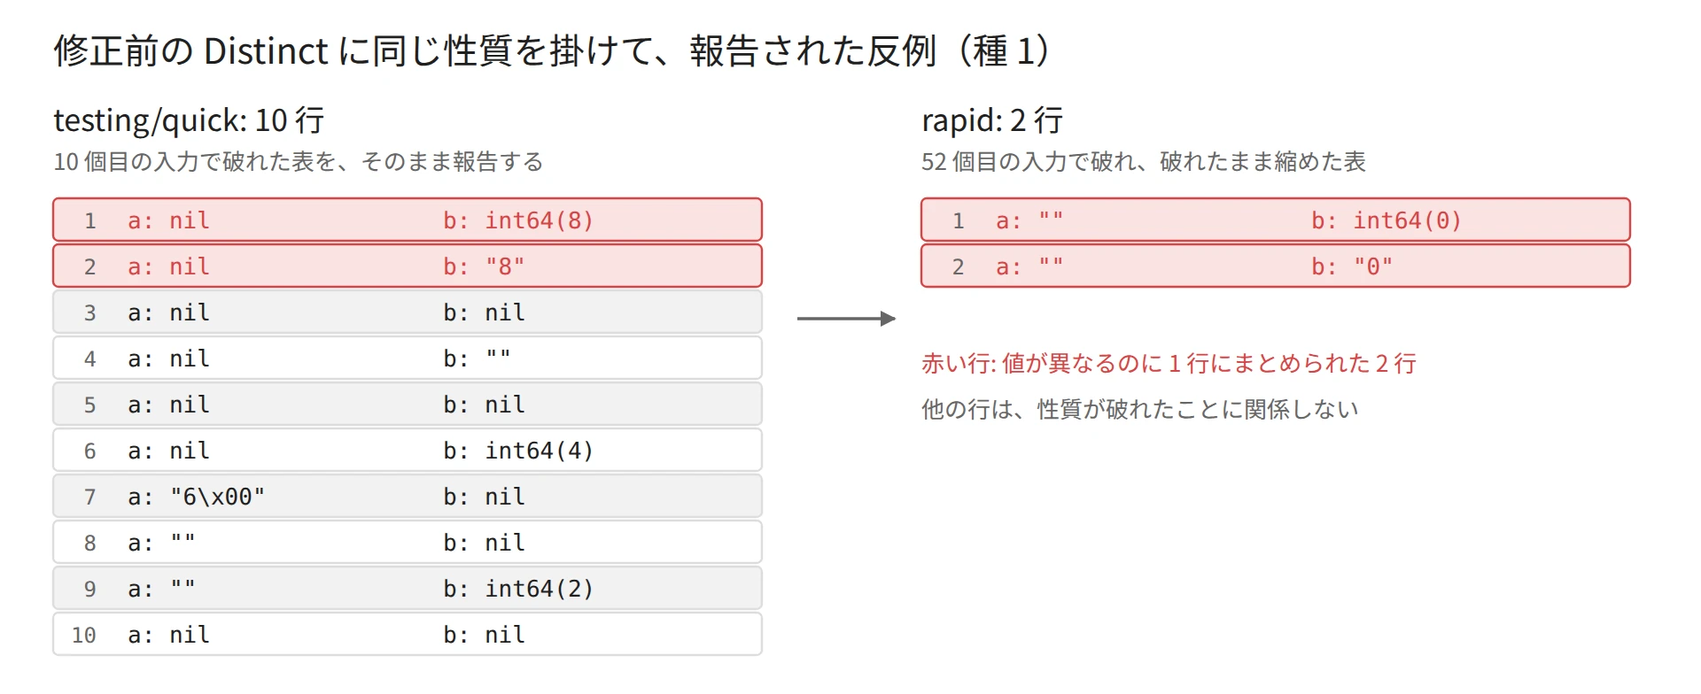
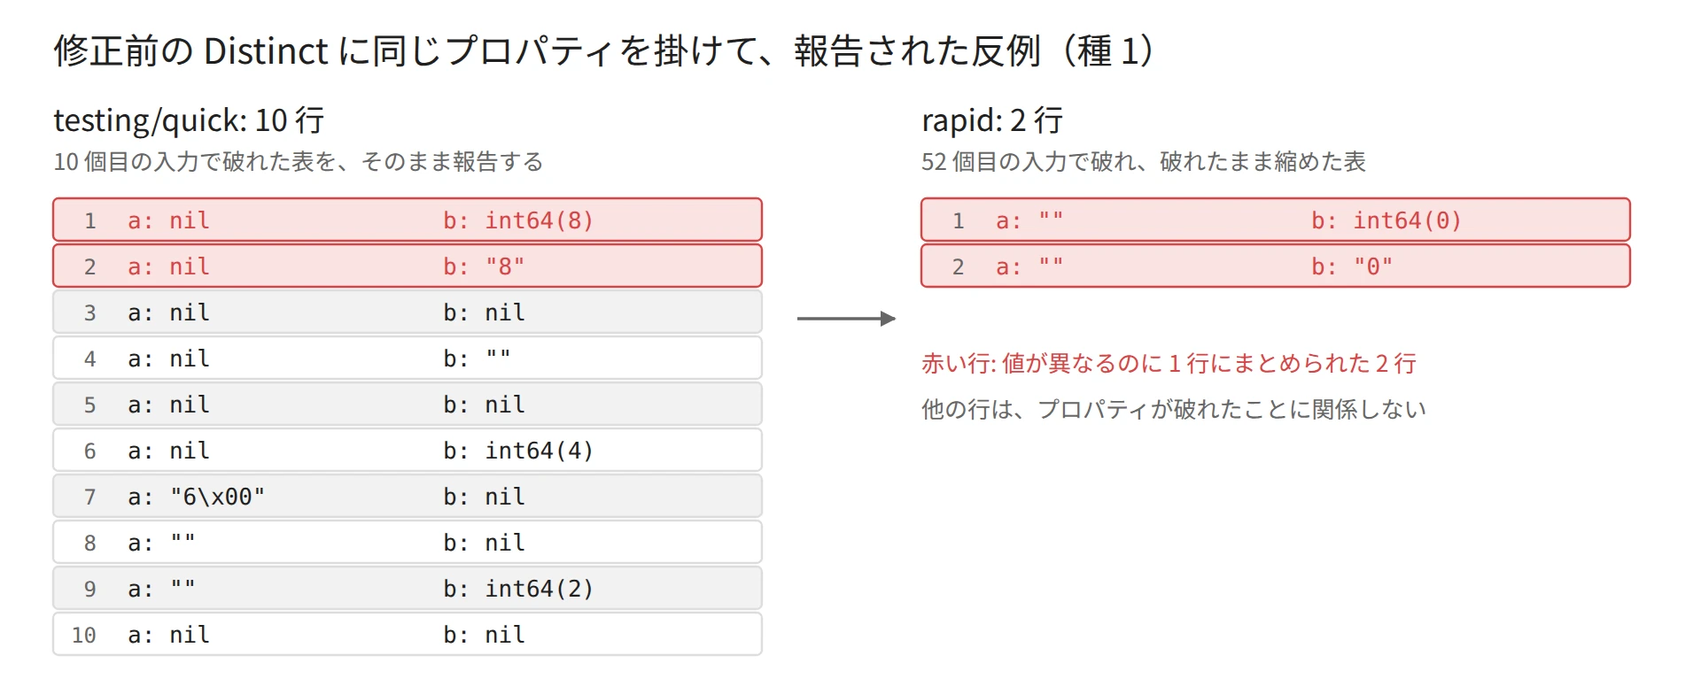
docs(notes): use the common terms for bulkhead, poison pill, projection, property and generator
Follow the Japanese documentation of Microsoft Learn and AWS, the jman
stdio(3) page and the Japanese edition of Property-Based Testing with
PropEr, Erlang, and Elixir. Shrinking becomes 収縮 to match the same book.
Regenerate the figures that carried the old labels. The Property-Based
Testing note is split over three commits to keep each change small.

Changed region(s): [[0.25, 0.0306, 0.6875, 0.0918], [0.5938, 0.551, 0.8438, 0.6122]]

diff --git a/content/notes/software-testing/property-based-testing/figures.py b/content/notes/software-testing/property-based-testing/figures.py
@@ -6,10 +6,10 @@
 動く図は Pillow の ImageDraw でコマを描く。images/ には WebP だけを残す。
 数値と反例は lab/output/ から読むので、実験の script を回し直したら、この script も回し直す。
 
-- cover_figure(): 表紙。修正前の Distinct に同じ性質を掛けた時、testing/quick が報告した反例（10 行）と
+- cover_figure(): 表紙。修正前の Distinct に同じプロパティを掛けた時、testing/quick が報告した反例（10 行）と
   rapid が縮めた反例（2 行）を並べる（lab/output/exp1_shrink.tsv の種 1）。
 - keys_figure(): 修正前の makeRowKey が、異なる 2 行に同じ鍵を作る 3 つの組（filesql Issue #354）。
-- shrink_animation(): rapid が種 1 の反例を縮める途中で、性質が破れた表を順に見せる動画
+- shrink_animation(): rapid が種 1 の反例を縮める途中で、プロパティが破れた表を順に見せる動画
   （lab/output/exp1_shrink_steps_seed1.txt）。
 - float_figure(): 修正後の鍵が整数を float64 にしてから文字列にするので、2^53 を超えると
   隣り合う整数が同じ鍵になる（filesql Issue #379）。
@@ -155,14 +155,14 @@ def cover_figure():
     q, r = read_exp1("quick"), read_exp1("rapid")
     qrows, rrows = parse_table(q["counterexample"]), parse_table(r["counterexample"])
     s = Svg(960, 400)
-    s.text(30, 36, "修正前の Distinct に同じ性質を掛けて、報告された反例（種 1）", 20, INK, "start")
+    s.text(30, 36, "修正前の Distinct に同じプロパティを掛けて、報告された反例（種 1）", 20, INK, "start")
     end = table_svg(s, 30, 74, qrows, 400, f"testing/quick: {len(qrows)} 行",
                     f"{q['case']} 個目の入力で破れた表を、そのまま報告する")
     table_svg(s, 520, 74, rrows, 400, f"rapid: {len(rrows)} 行",
               f"{r['case']} 個目の入力で破れ、破れたまま縮めた表")
     s.arrow(450, 180, 505, 180)
     s.text(520, 210, "赤い行: 値が異なるのに 1 行にまとめられた 2 行", 13, RED, "start")
-    s.text(520, 236, "他の行は、性質が破れたことに関係しない", 13, SUB, "start")
+    s.text(520, 236, "他の行は、プロパティが破れたことに関係しない", 13, SUB, "start")
     s.h = max(end + 20, 300)
     s.p[0] = f'<svg xmlns="http://www.w3.org/2000/svg" width="960" height="{s.h}" viewBox="0 0 960 {s.h}">'
     s.p[3] = f'<rect width="960" height="{s.h}" fill="#ffffff"/>'
@@ -218,7 +218,7 @@ def shrink_animation(step_sec=0.5, hold=3.0):
         im = Image.new("RGB", (W * S, H * S), "#ffffff")
         d = ImageDraw.Draw(im)
         d.text((24 * S, 18 * S), "rapid が反例を縮める様子（修正前の Distinct、種 1）", font=font(19), fill=rgb(INK))
-        d.text((24 * S, 50 * S), f"性質が破れた表 {k + 1} 個目 / {len(steps)} 個（1 個目が見つけた反例）　　行の数 {len(rows)}",
+        d.text((24 * S, 50 * S), f"プロパティが破れた表 {k + 1} 個目 / {len(steps)} 個（1 個目が見つけた反例）　　行の数 {len(rows)}",
                font=font(15), fill=rgb(SUB))
         # 何個目かが分かる帯
         bx, by, bw = 24, 80, 852

diff --git a/content/notes/software-testing/property-based-testing/lab/distinct/distinct_test.go b/content/notes/software-testing/property-based-testing/lab/distinct/distinct_test.go
@@ -25,7 +25,7 @@ func (tb table) rows() []map[string]any {
 	return rows
 }
 
-// 性質: Distinct が返す行の数は、値が本当に異なる行の数に等しい。
+// プロパティ: Distinct が返す行の数は、値が本当に異なる行の数に等しい。
 // セルは nil・int64・string だけなので、[2]any を map の鍵にすれば
 // 「型と値が両方同じ」の比較になる。
 func check(tb table) error {
@@ -44,7 +44,7 @@ func check(tb table) error {
 	return nil
 }
 
-// 狭い生成器: 整数は 0〜9、文字列は 0〜2 文字で、文字は数字・x・NUL だけ。
+// 狭いジェネレーター: 整数は 0〜9、文字列は 0〜2 文字で、文字は数字・x・NUL だけ。
 const narrowRunes = "0123456789x\x00"
 
 func narrowCell(r *rand.Rand) any {
@@ -62,7 +62,7 @@ func narrowCell(r *rand.Rand) any {
 	}
 }
 
-// 広い生成器: 整数は int64 の全範囲、文字列は testing/quick が string に使う既定の生成。
+// 広いジェネレーター: 整数は int64 の全範囲、文字列は testing/quick が string に使う既定の生成。
 func broadCell(r *rand.Rand) any {
 	switch r.Intn(3) {
 	case 0:
@@ -126,10 +126,10 @@ func TestQuickSeeds(t *testing.T) {
 	}
 }
 
-// rapid の生成器。狭い・広いの範囲は上の testing/quick と同じにする。
+// rapid のジェネレーター。狭い・広いの範囲は上の testing/quick と同じにする。
 func rapidCell(gen string) *rapid.Generator[any] {
 	if gen == "edge" {
-		// 境界を足した生成器: 整数に、float64 で正確に表せる最大の連続した整数 2^53 の前後を混ぜる。
+		// 境界を足したジェネレーター: 整数に、float64 で正確に表せる最大の連続した整数 2^53 の前後を混ぜる。
 		return rapid.OneOf(
 			rapid.Just[any](nil),
 			rapid.Map(rapid.OneOf(rapid.Int64Range(0, 9), rapid.Int64Range(1<<53-2, 1<<53+2)), func(v int64) any { return v }),
@@ -167,7 +167,7 @@ func TestRapid(t *testing.T) {
 	})
 }
 
-// SHRINKLOG を指定すると、性質が破れた表を破れた順にそのファイルへ 1 行ずつ足す。
+// SHRINKLOG を指定すると、プロパティが破れた表を破れた順にそのファイルへ 1 行ずつ足す。
 // 最初の行が最初に見つけた反例で、その後は rapid が縮める途中で破れた表。
 func logShrink(tb table) {
 	p := os.Getenv("SHRINKLOG")

diff --git a/content/notes/software-architecture/cell-based-architecture/lab/blast_radius.py b/content/notes/software-architecture/cell-based-architecture/lab/blast_radius.py
@@ -1,8 +1,8 @@
-"""1 人の毒入り顧客が、他の顧客をどれだけ巻き込むかを数える。
+"""ポイズンピルを送る 1 人の顧客が、他の顧客をどれだけ巻き込むかを数える。
 
 ワーカー 8 台と顧客 1 万人で、通常の cell（2 台ずつ 4 組）と
 shuffle sharding（顧客ごとにランダムな 2 台の組）の割り当てを比べる。
-毒入り顧客の要求は、届いたワーカーを全て止めるものとする。
+ポイズンピルを送る顧客の要求は、届いたワーカーを全て止めるものとする。
 標準ライブラリだけを使う。Python 3.14.4 で実行を確認した。
 """
 
@@ -16,7 +16,7 @@ rng = random.Random(1)
 
 
 def classify(shards, poison):
-    """毒入り顧客の組と比べて、全滅・一部停止・無傷の人数を返す。"""
+    """ポイズンピルを送る顧客の組と比べて、全滅・一部停止・無傷の人数を返す。"""
     dead = set(shards[poison])
     full = part = 0
     for c, shard in enumerate(shards):
@@ -53,7 +53,7 @@ print(f"  通常の cell  全滅 {1 / len(cells):6.2%}")
 print(f"  shuffle      全滅 {1 / total:6.2%}  "
       f"一部停止 {(total - no_overlap - 1) / total:6.2%}")
 
-print("[3] 台数と組の大きさを変えた時、毒入り顧客と組が完全に重なる確率")
+print("[3] 台数と組の大きさを変えた時、ポイズンピルを送る顧客と組が完全に重なる確率")
 for n, k in [(8, 2), (16, 4), (100, 5), (2048, 4)]:
     print(f"  {n:>5} 台から {k} 台: 組み合わせ {comb(n, k):>17,} 通り  "
           f"確率 {1 / comb(n, k):.2e}  （通常の cell なら {k / n:.2%}）")

diff --git a/content/notes/software-architecture/event-sourcing/figures.py b/content/notes/software-architecture/event-sourcing/figures.py
@@ -127,7 +127,7 @@ def table(f, x, y, w, title):
 
 
 def concept_figure():
-    """追記だけのイベントの帯と、そこから導く状態・スナップショット・投影。
+    """追記だけのイベントの帯と、そこから導く状態・スナップショット・プロジェクション。
 
     青はイベント（一次記録）、青の破線は新しく追記するイベント、灰色はイベントから
     作り直せる導出物（今の状態・スナップショット・読み取りモデル）を表す。
@@ -167,7 +167,7 @@ def concept_figure():
     f.line(x0 + cell / 2, by, x0 + 6 * step + cell / 2, by, COLOR_GRAY, sw=4)
     for x in (210, 530):
         f.line(x, by, x, 362, COLOR_GRAY, sw=4, arrow="gray")
-    f.text(370, 320, "投影", 24, COLOR_GRAY)
+    f.text(370, 320, "プロジェクション", 24, COLOR_GRAY)
     table(f, 100, 372, 220, "一覧")
     table(f, 420, 372, 220, "集計")
     f.text(370, 528, "読み取りモデル", 24, COLOR_GRAY)

diff --git a/content/notes/software-architecture/cell-based-architecture/figures.py b/content/notes/software-architecture/cell-based-architecture/figures.py
@@ -35,7 +35,7 @@ OUT.mkdir(exist_ok=True)
 # ワーカー 100 台。1 人の顧客が使う台数 k を変える。
 N = 100
 ks = list(range(1, 11))
-cell_full = [k / N for k in ks]  # 通常の cell: 毒入り顧客と同じ cell の顧客が全滅
+cell_full = [k / N for k in ks]  # 通常の cell: ポイズンピルを送る顧客と同じ cell の顧客が全滅
 shuffle_full = [1 / comb(N, k) for k in ks]  # 組が完全に重なる顧客だけが全滅
 # k = 1 では一部だけ止まる顧客がいないので、対数軸に載せない。
 shuffle_part = [1 - comb(N - k, k) / comb(N, k) - 1 / comb(N, k) if k > 1 else float("nan")

diff --git a/content/notes/computer-systems/stdout-buffering/figures.py b/content/notes/computer-systems/stdout-buffering/figures.py
@@ -333,7 +333,7 @@ def buffer_path_figure():
     arrow(632, 108, 698, 108)
     # 書き出す契機
     text(20, 268, "write(2) を呼ぶ契機", 14, SUB, "start")
-    modes = [("バッファ無し", "書くたびに"), ("行バッファ", "改行を書いた時"), ("全バッファ", "満杯になった時・終了時")]
+    modes = [("バッファ無し", "書くたびに"), ("行バッファ", "改行を書いた時"), ("完全バッファリング", "満杯時・終了時")]
     for i, (name, when) in enumerate(modes):
         x = 20 + i * 290
         box(x, 282, 270, 36, "#ffffff")

diff --git a/content/notes/computer-systems/stdout-buffering/index.md b/content/notes/computer-systems/stdout-buffering/index.md
@@ -34,11 +34,11 @@ stdio のバッファリング（buffering）は、C の標準入出力ライブ
 
 最初に、出力がどこに溜まるのかを押さえます。C の `printf` は、文字列をすぐにカーネルへ渡すわけではありません。stdio が持つバッファ、つまり書く側のプロセスのメモリに一度置かれ、後で [`write(2)`](https://man7.org/linux/man-pages/man2/write.2.html) システムコールでまとめてカーネルへ渡されます。`(2)` は man ページの章番号で、2 章はシステムコール（プログラムがカーネルに処理を頼む入口）を表します。
 
-{{< figure src="images/buffer_path.webp" alt="左に書く側のプロセスがあり、その中で printf から stdio のバッファへ矢印が伸びる。バッファから write(2) でカーネルのパイプへ、パイプから読む側のプロセスへ矢印が続く。下に、バッファ無しは書くたびに、行バッファは改行を書いた時に、全バッファは満杯になった時と終了時に write(2) を呼ぶ、と並ぶ" caption="stdio のバッファは書く側のプロセスの中にあり、write(2) を呼ぶ契機が 3 種類ある" align="center" >}}
+{{< figure src="images/buffer_path.webp" alt="左に書く側のプロセスがあり、その中で printf から stdio のバッファへ矢印が伸びる。バッファから write(2) でカーネルのパイプへ、パイプから読む側のプロセスへ矢印が続く。下に、バッファ無しは書くたびに、行バッファは改行を書いた時に、完全バッファリングは満杯になった時と終了時に write(2) を呼ぶ、と並ぶ" caption="stdio のバッファは書く側のプロセスの中にあり、write(2) を呼ぶ契機が 3 種類ある" align="center" >}}
 
-上記の図の下段の通り、バッファリングには 3 つのモードがあります。バッファ無し（unbuffered）は書くたびに、行バッファ（line buffered）は改行を書いた時に、全バッファ（fully buffered）はバッファが満杯になった時かプロセスの終了時に `write(2)` を呼びます。どのモードでも、読む側から見えるのは `write(2)` された後のデータだけです。
+上記の図の下段の通り、バッファリングには 3 つのモードがあります。バッファ無し（unbuffered）は書くたびに、行バッファ（line buffered）は改行を書いた時に、完全バッファリング（fully buffered）はバッファが満杯になった時かプロセスの終了時に `write(2)` を呼びます。どのモードでも、読む側から見えるのは `write(2)` された後のデータだけです。
 
-C の標準出力が使うモードは、出力先で決まります。C 規格は「対話的な装置（端末のこと）ではないと判定できる場合に限り、標準出力は全バッファにする」と定めており、Linux で標準の C ライブラリである [glibc](https://www.gnu.org/software/libc/) は、出力先が端末なら行バッファ、パイプやファイルなら全バッファを選びます（[glibc の文書](https://sourceware.org/glibc/manual/latest/html_node/Buffering-Concepts.html)）。
+C の標準出力が使うモードは、出力先で決まります。C 規格は「対話的な装置（端末のこと）ではないと判定できる場合に限り、標準出力は完全バッファリングにする」と定めており、Linux で標準の C ライブラリである [glibc](https://www.gnu.org/software/libc/) は、出力先が端末なら行バッファ、パイプやファイルなら完全バッファリングを選びます（[glibc の文書](https://sourceware.org/glibc/manual/latest/html_node/Buffering-Concepts.html)）。
 
 端末かどうかは、出力先のファイル記述子（OS が開いたファイルやパイプに振る番号で、標準出力は 1）を [`isatty`](https://man7.org/linux/man-pages/man3/isatty.3.html) で調べて判定します。
 
@@ -86,9 +86,9 @@ write(1, "line 1\nline 2\nline 3\nline 4\nline"..., 35) = 35
 
 以下は、同じ C のプログラムをパイプにつなぎ、1.2 秒後に Ctrl-C と同じ `SIGINT` をパイプライン全体へ送った結果です。
 
-{{< figure src="images/interrupt.webp" alt="経過時間が 0 秒から 2 秒まで進む動画。パイプの行では、0、0.5、1.0 秒に書いた 3 行がバッファの箱に溜まり、1.2 秒の Ctrl-C で取り消し線が付いて強制終了で消えたと表示され、読む側の箱は空のまま。stdbuf -oL を付けたパイプでは、3 行とも書いた直後に読む側の箱へ移っている" caption="1.2 秒で止めると、全バッファでは書いたはずの 3 行が 1 行も届かない" align="center" >}}
+{{< figure src="images/interrupt.webp" alt="経過時間が 0 秒から 2 秒まで進む動画。パイプの行では、0、0.5、1.0 秒に書いた 3 行がバッファの箱に溜まり、1.2 秒の Ctrl-C で取り消し線が付いて強制終了で消えたと表示され、読む側の箱は空のまま。stdbuf -oL を付けたパイプでは、3 行とも書いた直後に読む側の箱へ移っている" caption="1.2 秒で止めると、完全バッファリングでは書いたはずの 3 行が 1 行も届かない" align="center" >}}
 
-全バッファの場合、プログラムは 3 行を書いたつもりでいます。しかし、3 行はプロセスのメモリから出ないまま消えました。`tail -f app.log | grep ERROR | cut -d' ' -f1` を眺めていて Ctrl-C を押すと、途中の `grep` が溜めていた行は `cut` に渡らないまま消えます。最後の数行が画面に出なかった、という現象の正体はこれです。
+完全バッファリングの場合、プログラムは 3 行を書いたつもりでいます。しかし、3 行はプロセスのメモリから出ないまま消えました。`tail -f app.log | grep ERROR | cut -d' ' -f1` を眺めていて Ctrl-C を押すと、途中の `grep` が溜めていた行は `cut` に渡らないまま消えます。最後の数行が画面に出なかった、という現象の正体はこれです。
 
 実験のスクリプトは、Python から起動して、プロセスグループ（パイプラインに並んだプロセスのまとまり）全体にシグナルを送っています（`stamp.py` は、読んだ行に起動からの秒を付けて出す小さなスクリプトで、[lab](https://github.com/nao1215/debimate/tree/main/content/notes/computer-systems/stdout-buffering/lab) にあります）。
 
@@ -147,11 +147,11 @@ done
 
 上記の動画を見て分かる通り、C と Python はパイプにつなぐとまとめて届き、Go と Rust はパイプでも 1 行ずつ届きます。ただし、Go と Rust が 1 行ずつ届く理由は違います。
 
-C と Python は、端末なら行バッファ、パイプなら全バッファです。Python の `sys.stdout` は、対話的な時は行バッファ、それ以外は通常のファイルと同じブロック単位のバッファ（つまり全バッファ）になると[公式の文書](https://docs.python.org/3/library/sys.html#sys.stdout)に書かれています。著者の環境の Python 3.14 では、パイプへの書き出しは 1 回あたり約 120KB でした。
+C と Python は、端末なら行バッファ、パイプなら完全バッファリングです。Python の `sys.stdout` は、対話的な時は行バッファ、それ以外は通常のファイルと同じブロック単位のバッファ（つまり完全バッファリング）になると[公式の文書](https://docs.python.org/3/library/sys.html#sys.stdout)に書かれています。著者の環境の Python 3.14 では、パイプへの書き出しは 1 回あたり約 120KB でした。
 
 Go は、バッファを持ちません。`os.Stdout` は、ファイル記述子をそのまま包んだ [`*os.File`](https://pkg.go.dev/os#pkg-variables) で、`fmt.Println` は呼ぶたびに `write(2)` まで進みます。速さが必要な時は、利用者が `bufio.Writer` で包み、自分で `Flush` を呼びます。
 
-Rust の標準出力は、改行で書き出す `LineWriter` です。[公式の文書](https://doc.rust-lang.org/std/io/struct.Stdout.html)は「端末につながっている時は行バッファ」と書いていますが、実装は出力先を見ずに常に `LineWriter` を使うので、パイプでも 1 行ずつ届きます。出力先で全バッファへ切り替える案は [rust-lang/rust#60673](https://github.com/rust-lang/rust/issues/60673) で議論が続いています。
+Rust の標準出力は、改行で書き出す `LineWriter` です。[公式の文書](https://doc.rust-lang.org/std/io/struct.Stdout.html)は「端末につながっている時は行バッファ」と書いていますが、実装は出力先を見ずに常に `LineWriter` を使うので、パイプでも 1 行ずつ届きます。出力先で完全バッファリングへ切り替える案は [rust-lang/rust#60673](https://github.com/rust-lang/rust/issues/60673) で議論が続いています。
 
 <br>
 
@@ -159,8 +159,8 @@ Rust の標準出力は、改行で書き出す `LineWriter` です。[公式の
 
 | 言語 | パイプへの既定 | すぐ届けたい時 | まとめて書きたい時 |
 |---|---|---|---|
-| C | 全バッファ | `fflush(stdout)`、`setvbuf` | 既定のまま |
-| Python | 全バッファ | `python3 -u`、`PYTHONUNBUFFERED=1`、`print(..., flush=True)` | 既定のまま |
+| C | 完全バッファリング | `fflush(stdout)`、`setvbuf` | 既定のまま |
+| Python | 完全バッファリング | `python3 -u`、`PYTHONUNBUFFERED=1`、`print(..., flush=True)` | 既定のまま |
 | Go | バッファ無し | 既定のまま | `bufio.NewWriter(os.Stdout)` と `Flush` |
 | Rust | 行バッファ | `stdout().flush()` | `BufWriter::new(stdout().lock())` |
 
@@ -280,7 +280,7 @@ GNU coreutils を前提に書いたシェルスクリプトや、手に馴染ん
 
 ### 書けなかった時の終わり方
 
-バッファリングは、出力が届く時刻だけでなく、書き込みの失敗に気付く時刻も遅らせます。全バッファのプログラムは、バッファが満杯になるか終了する時に `write(2)` を呼ぶまで、読む側がもういないことも、書き込み先が満杯なことも知りません。ここでは、書けない状況を 3 つ作り、各プログラムがどう終わるかを比べます。
+バッファリングは、出力が届く時刻だけでなく、書き込みの失敗に気付く時刻も遅らせます。完全バッファリングのプログラムは、バッファが満杯になるか終了する時に `write(2)` を呼ぶまで、読む側がもういないことも、書き込み先が満杯なことも知りません。ここでは、書けない状況を 3 つ作り、各プログラムがどう終わるかを比べます。
 
 1. 読む側が先に終わる（`| head -n 1`）。
 2. 書き込み先が満杯（`> /dev/full`。[`/dev/full`](https://man7.org/linux/man-pages/man4/full.4.html) は書くと必ず「空き領域が無い」エラーを返す装置）。

diff --git a/content/notes/software-architecture/cell-based-architecture/index.md b/content/notes/software-architecture/cell-based-architecture/index.md
@@ -39,11 +39,11 @@ cell が範囲を狭められる障害は、主に次の 3 つです。
 
 | 障害 | 1 つの構成で起きること | cell に分けた時 |
 | --- | --- | --- |
-| 毒入りの要求（poison pill） | 特定の入力がプロセスを落とし、再試行で別のサーバーも落とす | 落ちるのは、その顧客がいる cell のサーバーだけ |
+| ポイズンピル（poison pill） | 特定の入力がプロセスを落とし、再試行で別のサーバーも落とす | 落ちるのは、その顧客がいる cell のサーバーだけ |
 | 悪いデプロイ・設定変更 | 全サーバーに同時に入り、全顧客が失敗する | 最初に出した cell で気付けば、残りの cell には出さない |
 | 容量超過 | 1 人の顧客の急増で、共有の DB やキューが詰まる | 詰まるのは同じ cell の DB とキューだけ |
 
-毒入りの要求は、ロードバランサーの[再試行](/notes/distributed-systems/retry-backoff/)と組み合わさると、2 台目、3 台目と再送されて全台を落とします。cell に分けると再送先も同じ cell の中なので、他の cell のサーバーには届きません。
+ポイズンピルは、ロードバランサーの[再試行](/notes/distributed-systems/retry-backoff/)と組み合わさると、2 台目、3 台目と再送されて全台を落とします。cell に分けると再送先も同じ cell の中なので、他の cell のサーバーには届きません。
 
 cell の考え方は、浸水を 1 区画に留める船の[隔壁（bulkhead）](https://docs.aws.amazon.com/wellarchitected/latest/reducing-scope-of-impact-with-cell-based-architecture/what-is-a-cell-based-architecture.html)と同じです（資源を用途ごとに区切る [Bulkhead](/notes/software-architecture/bulkhead/) パターンのノート）。100 件の要求を 10 個の cell で処理していれば、1 つの cell の障害で影響を受けない要求は 90% です。
 
@@ -57,7 +57,7 @@ cell の単位は、顧客の部分集合とは限りません。チャットサ
 
 ### Cell Router による振り分け
 
-顧客の要求を正しい cell に届けるのが Cell Router（振り分け層）です。クライアントからは 1 つのエンドポイントに見え、ルーターが要求に含まれるパーティションキーから cell を選びます。パーティションキーは顧客 ID やテナント ID のように、ほとんどの API 呼び出しに含まれる値を選びます。
+顧客の要求を正しい cell に届けるのが Cell Router（セルルーター）です。クライアントからは 1 つのエンドポイントに見え、ルーターが要求に含まれるパーティションキーから cell を選びます。パーティションキーは顧客 ID やテナント ID のように、ほとんどの API 呼び出しに含まれる値を選びます。
 
 ```mermaid
 %%{init: {"theme":"base","themeVariables":{"primaryColor":"#eaf1f5","primaryTextColor":"#28343b","primaryBorderColor":"#9cabb5","lineColor":"#596b76","textColor":"#28343b"}}}%%
@@ -131,19 +131,19 @@ flowchart LR
 
 ---
 
-### 毒入り顧客の巻き込みの実験
+### ポイズンピルを送る顧客が他の顧客を巻き込む実験
 
-cell に分けても、毒入り顧客と同じ cell の顧客は全員巻き込まれます。この巻き込みを減らす方法に、shuffle sharding があります。ワーカー（要求を処理するサーバー）を固定の組に分けず、顧客ごとに n 台から k 台の組み合わせをランダムに選んで割り当てます。
+cell に分けても、ポイズンピルを送る顧客と同じ cell の顧客は全員巻き込まれます。この巻き込みを減らす方法に、shuffle sharding があります。ワーカー（要求を処理するサーバー）を固定の組に分けず、顧客ごとに n 台から k 台の組み合わせをランダムに選んで割り当てます。
 
 AWS が設計の知見を公開している [Builders' Library の記事](https://builder.aws.com/content/3F06NpJ8YeoIGP8VHTw4n81pFn8/workload-isolation-using-shuffle-sharding)は、DNS サービスの [Amazon Route 53](https://aws.amazon.com/route53/) で 2,048 台の仮想ネームサーバーから 4 台ずつを各ドメインに割り当て、約 7,300 億通りの組を作っている例を紹介しています。
 
-毒入り顧客が自分の組のワーカーを全て止めても、他の顧客の組と完全に重なっていなければ、その顧客は残ったワーカーで処理を続けられます。ただし、クライアントが失敗したワーカーを避けて再試行することが前提です。
+ポイズンピルを送る顧客が自分の組のワーカーを全て止めても、他の顧客の組と完全に重なっていなければ、その顧客は残ったワーカーで処理を続けられます。ただし、クライアントが失敗したワーカーを避けて再試行することが前提です。
 
-[lab/blast_radius.py](lab/blast_radius.py) は、ワーカー 8 台と顧客 1 万人で、2 台ずつの固定の cell と shuffle sharding を比べます。以下は、毒入り顧客の組と比べて人数を数える部分の抜粋です。
+[lab/blast_radius.py](lab/blast_radius.py) は、ワーカー 8 台と顧客 1 万人で、2 台ずつの固定の cell と shuffle sharding を比べます。以下は、ポイズンピルを送る顧客の組と比べて人数を数える部分の抜粋です。
 
 ```python
 def classify(shards, poison):
-    """毒入り顧客の組と比べて、全滅・一部停止・無傷の人数を返す。"""
+    """ポイズンピルを送る顧客の組と比べて、全滅・一部停止・無傷の人数を返す。"""
     dead = set(shards[poison])
     full = part = 0
     for c, shard in enumerate(shards):
@@ -163,11 +163,11 @@ def classify(shards, poison):
 <summary>blast_radius.py の全体</summary>
 
 ```python
-"""1 人の毒入り顧客が、他の顧客をどれだけ巻き込むかを数える。
+"""ポイズンピルを送る 1 人の顧客が、他の顧客をどれだけ巻き込むかを数える。
 
 ワーカー 8 台と顧客 1 万人で、通常の cell（2 台ずつ 4 組）と
 shuffle sharding（顧客ごとにランダムな 2 台の組）の割り当てを比べる。
-毒入り顧客の要求は、届いたワーカーを全て止めるものとする。
+ポイズンピルを送る顧客の要求は、届いたワーカーを全て止めるものとする。
 標準ライブラリだけを使う。Python 3.14.4 で実行を確認した。
 """
 
@@ -181,7 +181,7 @@ rng = random.Random(1)
 
 
 def classify(shards, poison):
-    """毒入り顧客の組と比べて、全滅・一部停止・無傷の人数を返す。"""
+    """ポイズンピルを送る顧客の組と比べて、全滅・一部停止・無傷の人数を返す。"""
     dead = set(shards[poison])
     full = part = 0
     for c, shard in enumerate(shards):
@@ -218,7 +218,7 @@ print(f"  通常の cell  全滅 {1 / len(cells):6.2%}")
 print(f"  shuffle      全滅 {1 / total:6.2%}  "
       f"一部停止 {(total - no_overlap - 1) / total:6.2%}")
 
-print("[3] 台数と組の大きさを変えた時、毒入り顧客と組が完全に重なる確率")
+print("[3] 台数と組の大きさを変えた時、ポイズンピルを送る顧客と組が完全に重なる確率")
 for n, k in [(8, 2), (16, 4), (100, 5), (2048, 4)]:
     print(f"  {n:>5} 台から {k} 台: 組み合わせ {comb(n, k):>17,} 通り  "
           f"確率 {1 / comb(n, k):.2e}  （通常の cell なら {k / n:.2%}）")
@@ -238,18 +238,18 @@ for n, k in [(8, 2), (16, 4), (100, 5), (2048, 4)]:
   組み合わせの数 C(8,2) = 28
   通常の cell  全滅 25.00%
   shuffle      全滅  3.57%  一部停止 42.86%
-[3] 台数と組の大きさを変えた時、毒入り顧客と組が完全に重なる確率
+[3] 台数と組の大きさを変えた時、ポイズンピルを送る顧客と組が完全に重なる確率
       8 台から 2 台: 組み合わせ                28 通り  確率 3.57e-02  （通常の cell なら 25.00%）
      16 台から 4 台: 組み合わせ             1,820 通り  確率 5.49e-04  （通常の cell なら 25.00%）
     100 台から 5 台: 組み合わせ        75,287,520 通り  確率 1.33e-08  （通常の cell なら 5.00%）
    2048 台から 4 台: 組み合わせ   730,862,190,080 通り  確率 1.37e-12  （通常の cell なら 0.20%）
 ```
 
-[1] の通常の cell では、毒入り顧客と同じ cell に入った約 1/4 の顧客が全滅し、残りは無傷です。shuffle sharding では、全滅は組が完全に重なる 1/28（約 3.6%）まで下がります。
+[1] の通常の cell では、ポイズンピルを送る顧客と同じ cell に入った約 1/4 の顧客が全滅し、残りは無傷です。shuffle sharding では、全滅は組が完全に重なる 1/28（約 3.6%）まで下がります。
 
 その代わりに、ワーカーを 1 台だけ共有して一部が止まる顧客が約 43% 出ます。この 43% は、再試行で残りの 1 台に届けば影響を受けません。しかし、再試行の分だけ応答は遅れ、生き残ったワーカーに負荷が集まります。
 
-[2] の理論値は、組み合わせの数から求めています。2 台の組は C(8,2) = 28 通りあり、毒入り顧客と同じ組を引く確率は 1/28 です。毒入り顧客の 2 台を含まない組は残り 6 台から選ぶ C(6,2) = 15 通りなので、一部が止まる確率は (28 - 15 - 1) / 28 = 12/28 です。[3] の最終行は、Route 53 の約 7,300 億通りと一致します。
+[2] の理論値は、組み合わせの数から求めています。2 台の組は C(8,2) = 28 通りあり、ポイズンピルを送る顧客と同じ組を引く確率は 1/28 です。ポイズンピルを送る顧客の 2 台を含まない組は残り 6 台から選ぶ C(6,2) = 15 通りなので、一部が止まる確率は (28 - 15 - 1) / 28 = 12/28 です。[3] の最終行は、Route 53 の約 7,300 億通りと一致します。
 
 台数を 100 台に固定し、1 人あたりの台数 k を変えると、3 つの割合は次のように動きます。
 
@@ -334,7 +334,7 @@ sequenceDiagram
 
 ### 利点
 
-- 悪いデプロイ・毒入りの要求・容量超過の影響が、1 つの cell の顧客に閉じる
+- 悪いデプロイ・ポイズンピル・容量超過の影響が、1 つの cell の顧客に閉じる
 - 新しいバージョンを cell ごとに出せるので、フラグで囲めない変更も一部の顧客で先に試せる
 - 1 つの cell の大きさに上限があるので、負荷試験と容量の見積もりを cell 単位で行える
 - 大きな顧客を専用の cell に移し、他の顧客から切り離せる
